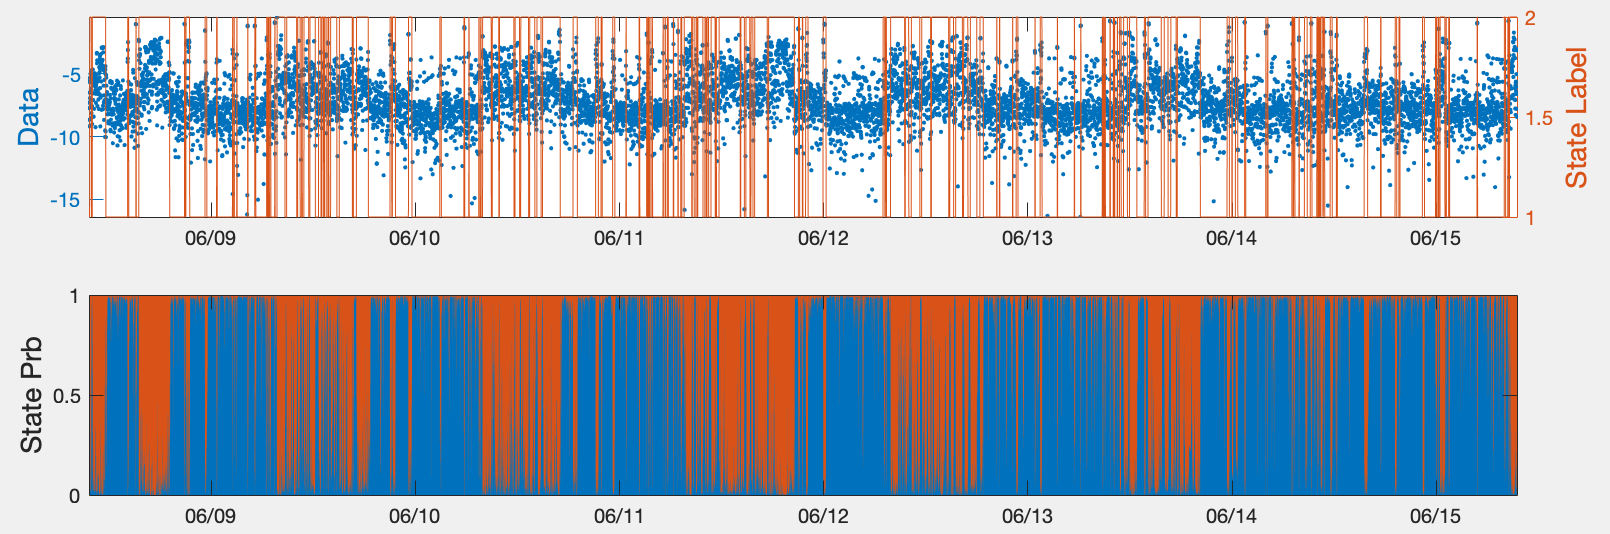
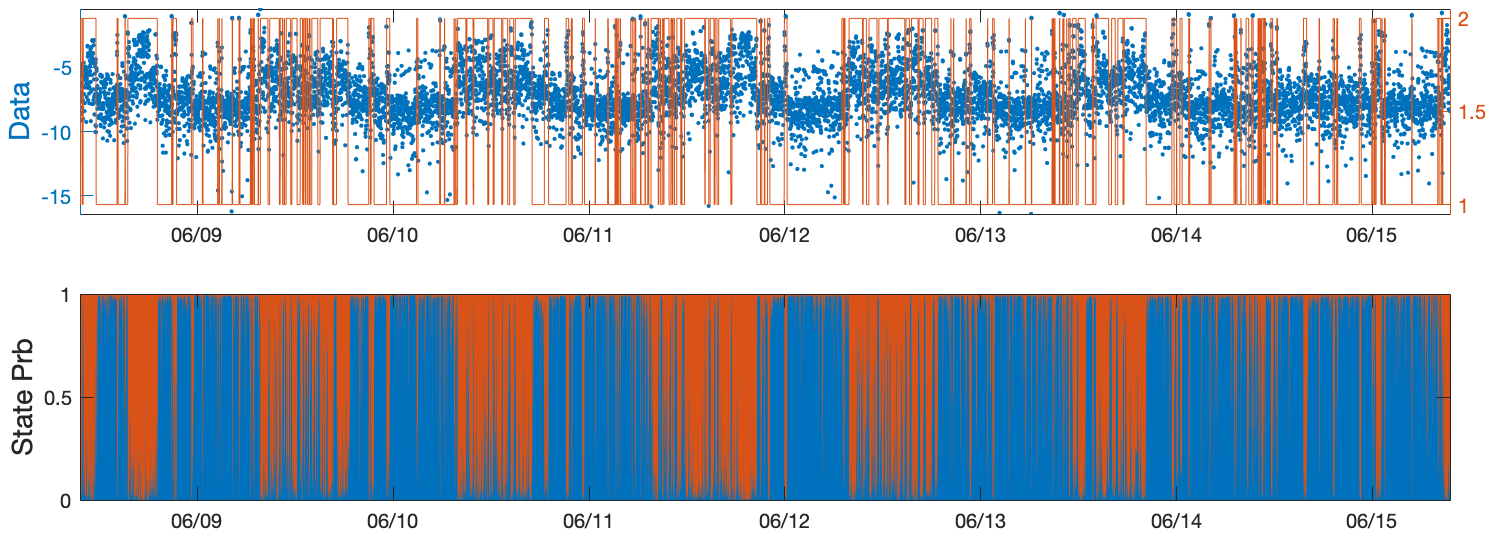
images

diff --git a/ContinuousEmissionHMMexample.m b/ContinuousEmissionHMMexample.m
@@ -6,7 +6,7 @@ addpath(genpath(mainpath)) % add subfunctions folder to path
 [Acc_Time,Total_Acc,Acc]=load_example_data();
 
 % Define the data to be used in the HMM
-Example=2; %Select Example to run
+Example=1; %Select Example to run
 
 if Example==1
     %Example 1 - Transformed total acceleration to find 3 hidden states of
@@ -84,7 +84,7 @@ end
 % Plot the state transitions
 plot_state_probabilities(prb,time,data,max_ind,S)
 
-
+set(gcf,'color','w');
 
 
 
